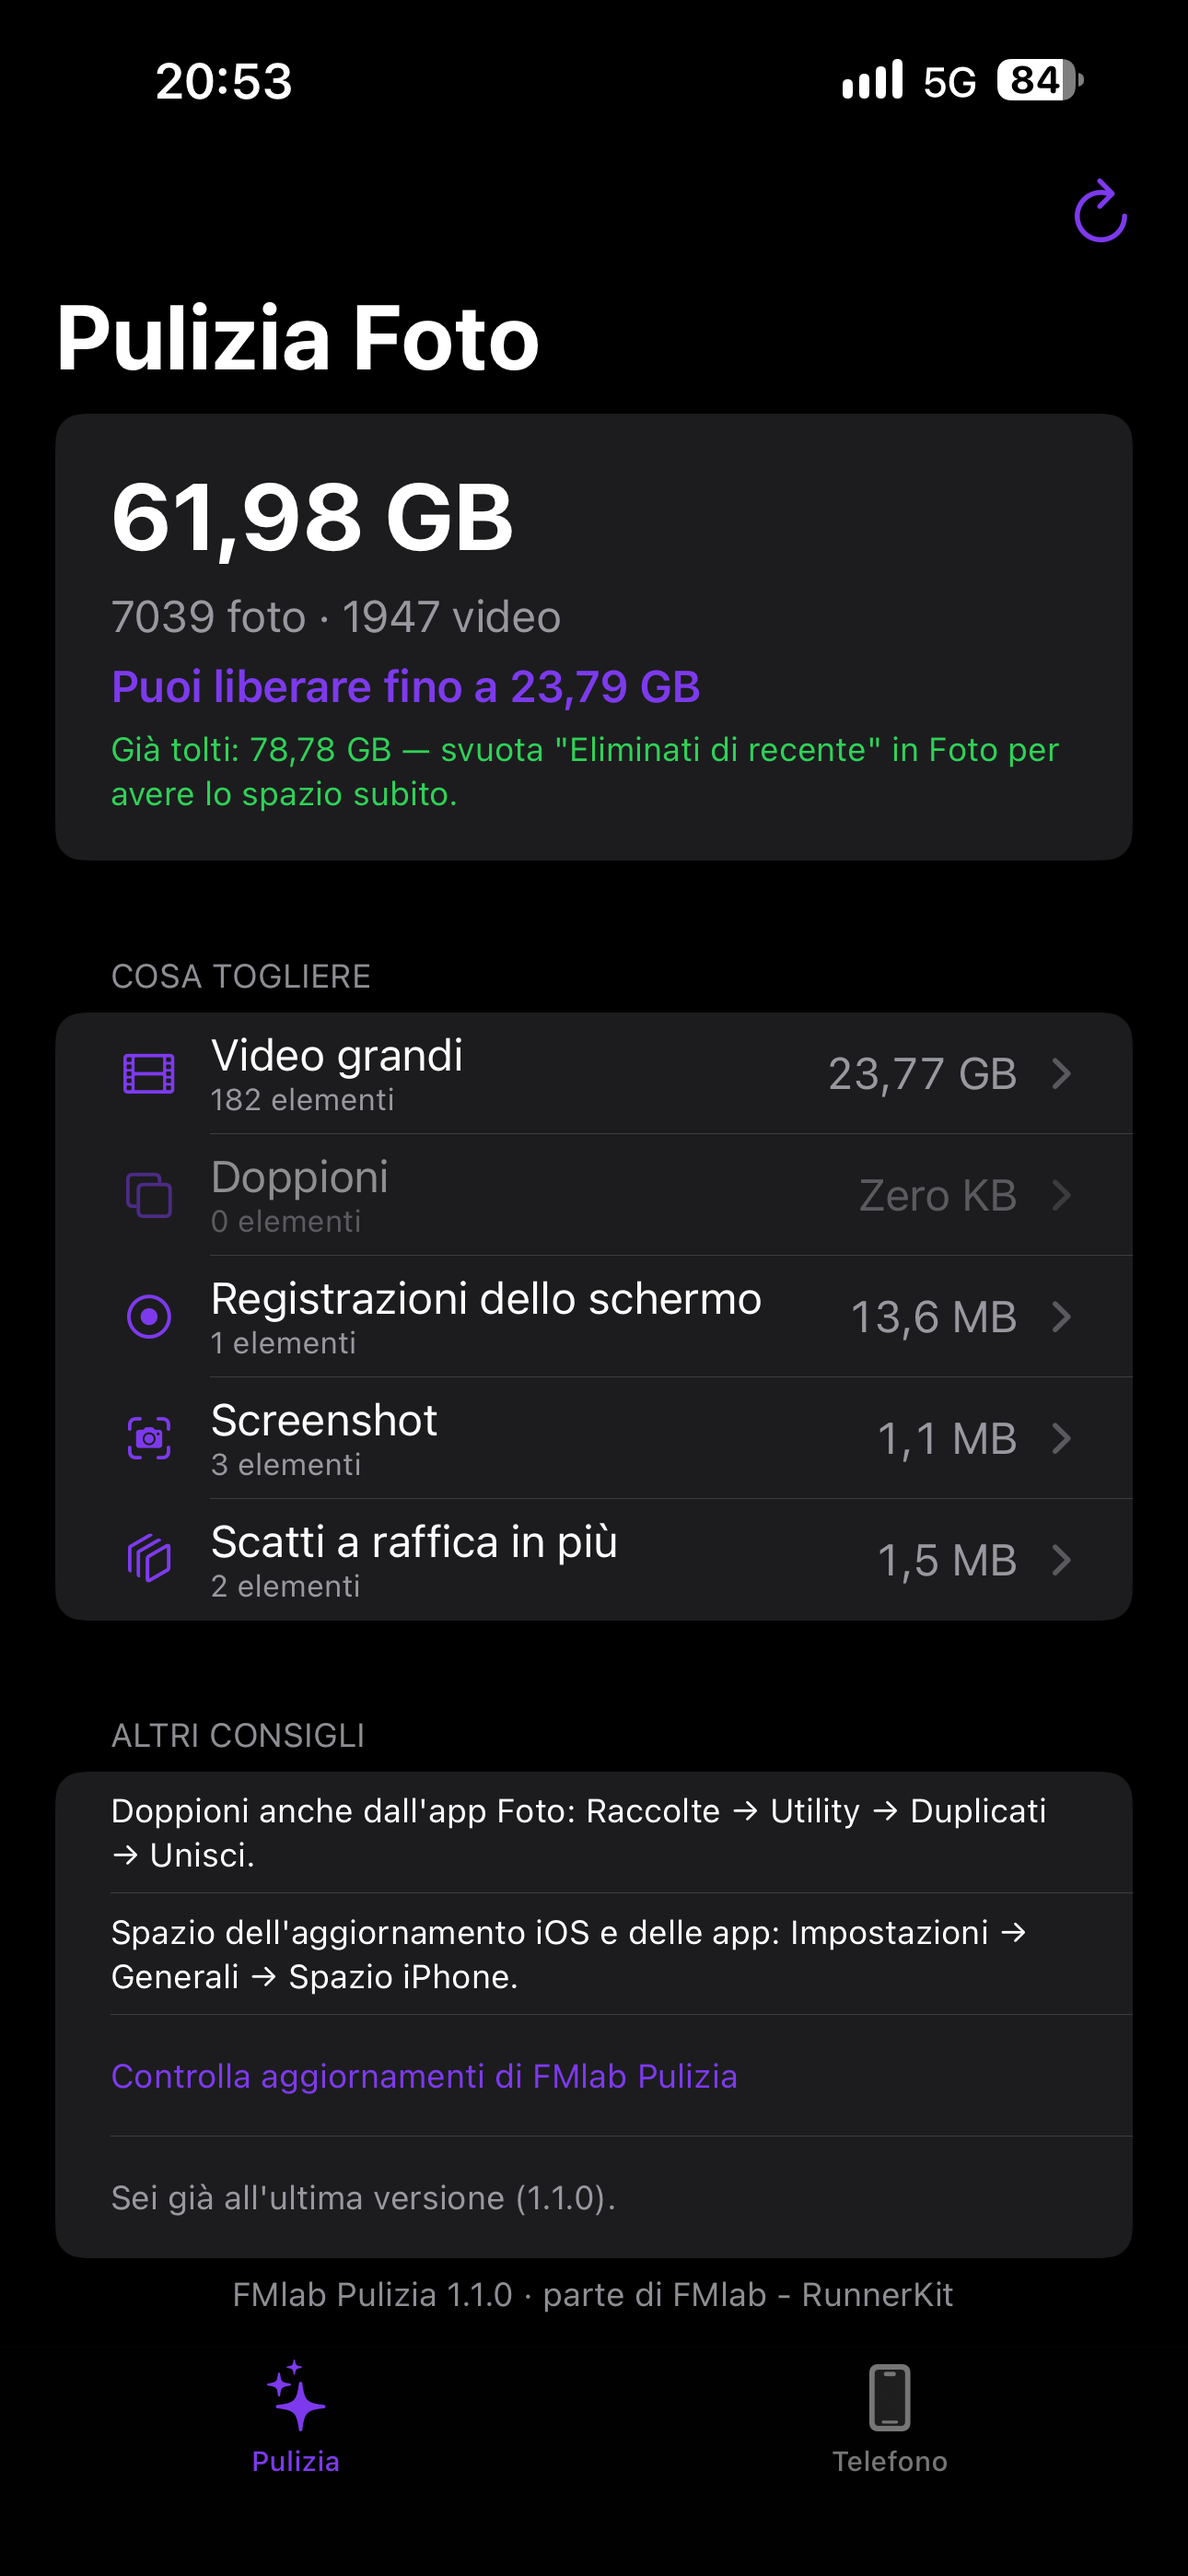
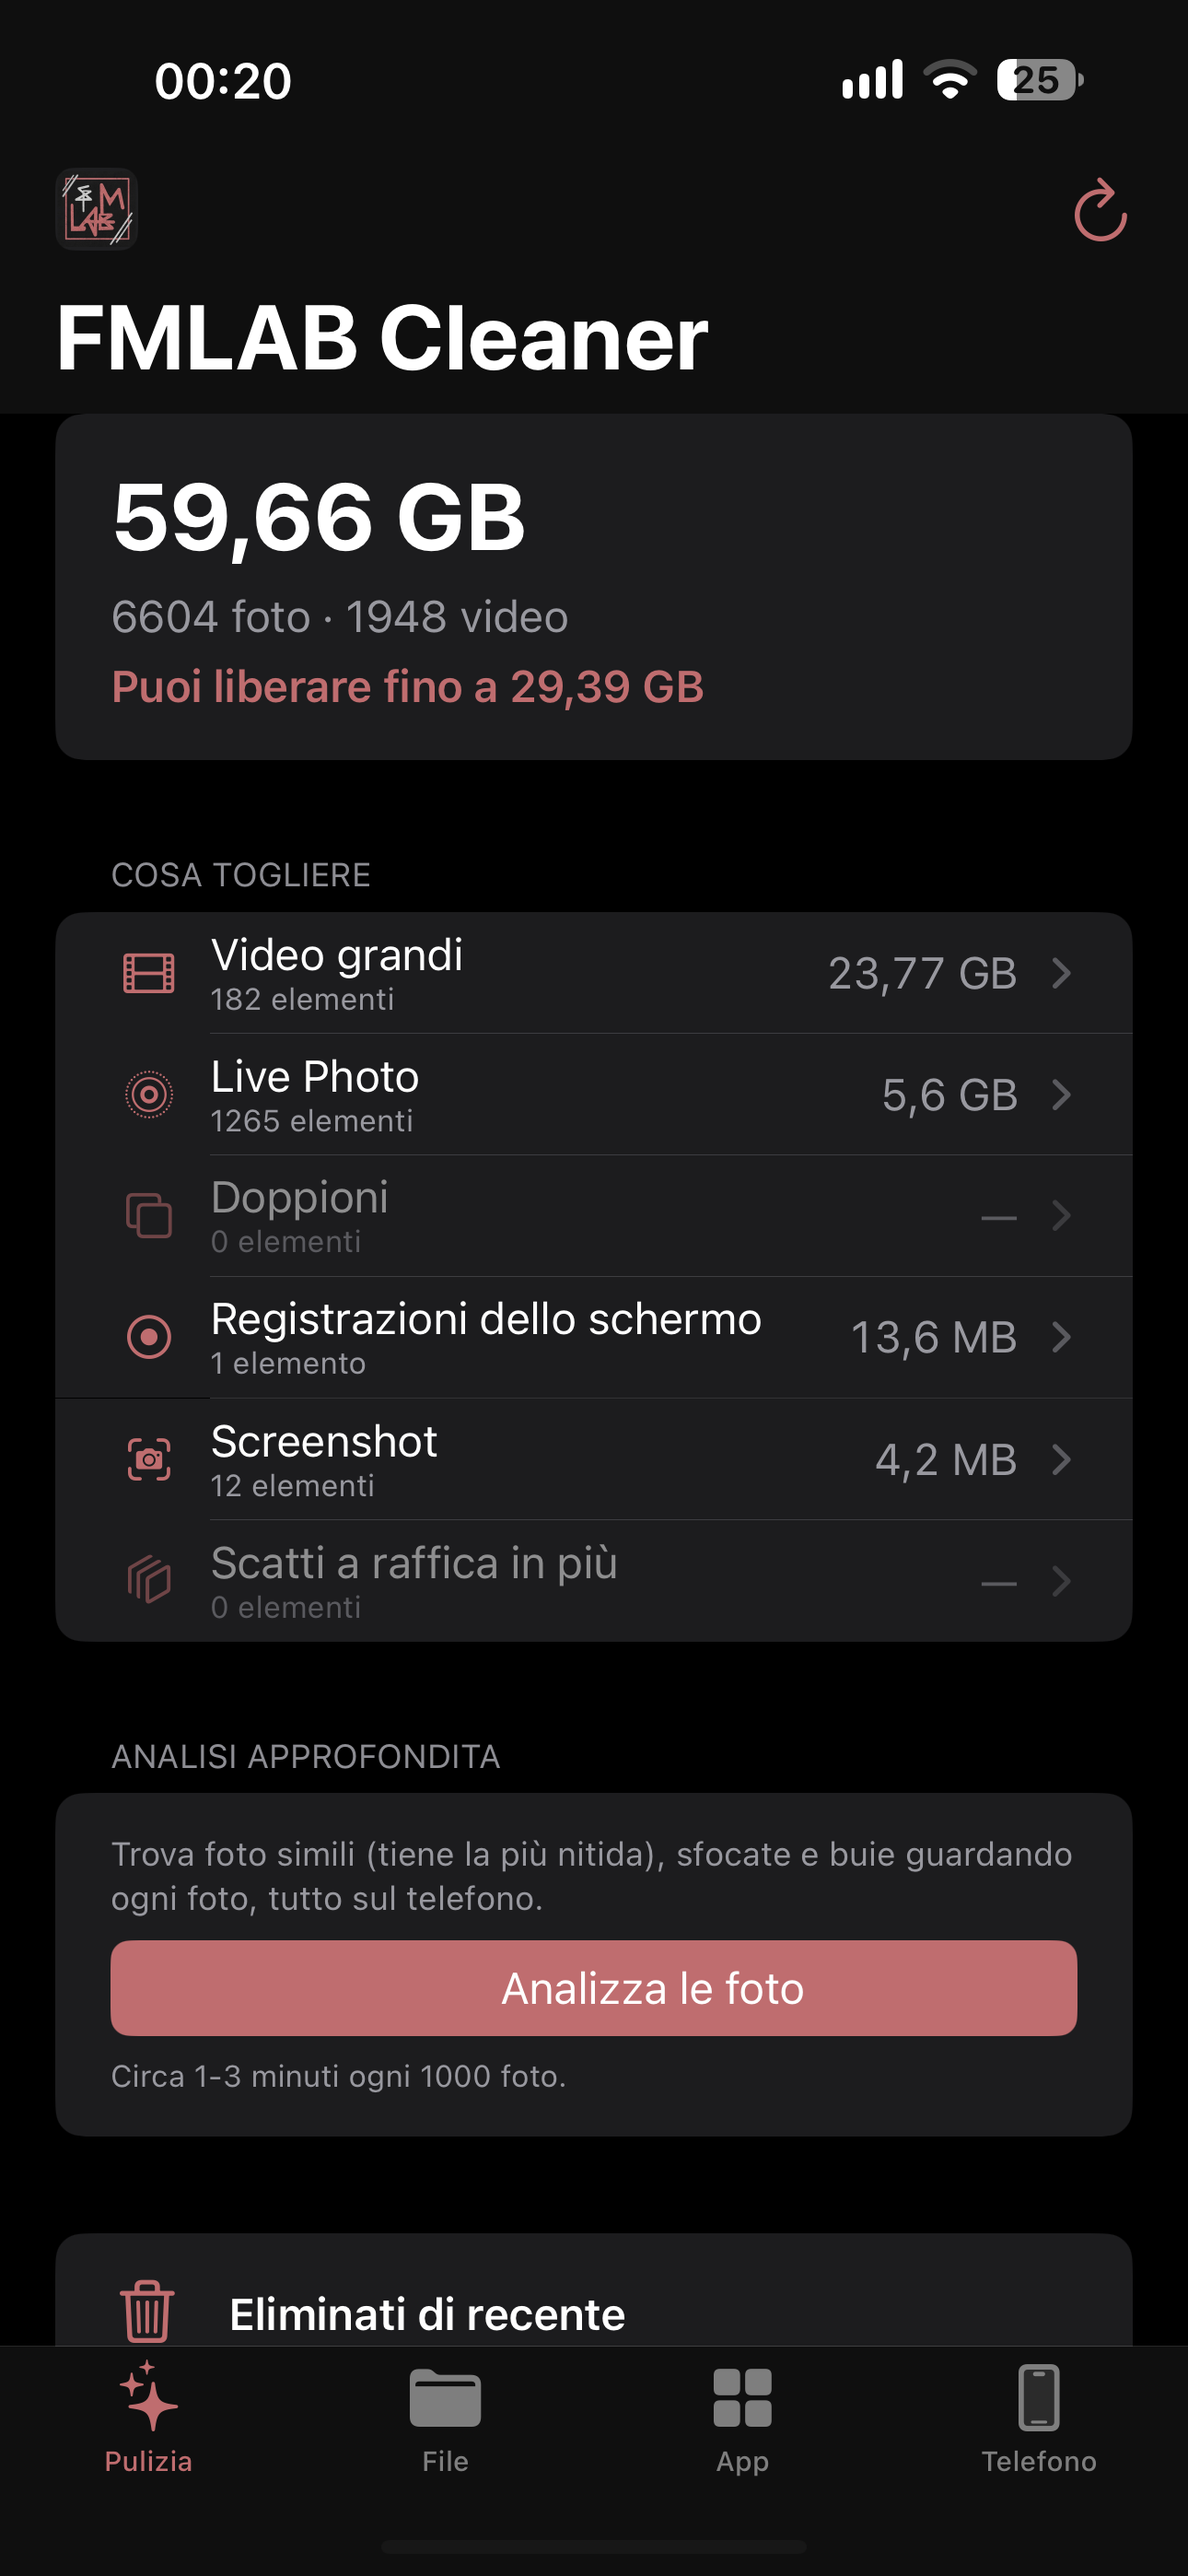
Schermate della 1.8.3 (Pulizia, File, App, Telefono, LiveContainer) [skip ci]
Claude-Session: https://claude.ai/code/session_01G42q2Z4XHv6LnjWvVethDh

diff --git a/README.md b/README.md
@@ -8,10 +8,13 @@
 Tutto resta sul telefono: niente internet (tranne il controllo aggiornamenti), niente abbonamenti, niente pubblicità.
 
 <p align="center">
-  <img src="screenshots/pulizia.png" width="32%" alt="Pulizia">
-  <img src="screenshots/file.png" width="32%" alt="File">
-  <img src="screenshots/telefono.png" width="32%" alt="Telefono">
+  <img src="screenshots/pulizia.png" width="24%" alt="Pulizia">
+  <img src="screenshots/file.png" width="24%" alt="File">
+  <img src="screenshots/app.png" width="24%" alt="App">
+  <img src="screenshots/telefono.png" width="24%" alt="Telefono">
 </p>
+
+<sub>Le schermate di FMLAB Cleaner 1.8.3 (ultima versione prima delle correzioni estetiche) sono anche in [`screenshots/1.8.3/`](screenshots/1.8.3/).</sub>
 
 ## Installazione
 

diff --git a/README.en.md b/README.en.md
@@ -9,10 +9,13 @@ Everything stays on the phone: no internet (except the update check), no subscri
 The app follows the iPhone language (Italian or English).
 
 <p align="center">
-  <img src="screenshots/pulizia.png" width="32%" alt="Clean">
-  <img src="screenshots/file.png" width="32%" alt="Files">
-  <img src="screenshots/telefono.png" width="32%" alt="Phone">
+  <img src="screenshots/pulizia.png" width="24%" alt="Clean">
+  <img src="screenshots/file.png" width="24%" alt="Files">
+  <img src="screenshots/app.png" width="24%" alt="App">
+  <img src="screenshots/telefono.png" width="24%" alt="Phone">
 </p>
+
+<sub>FMLAB Cleaner 1.8.3 screenshots (last version before the cosmetic fixes) are also kept in [`screenshots/1.8.3/`](screenshots/1.8.3/).</sub>
 
 ## Install
 
